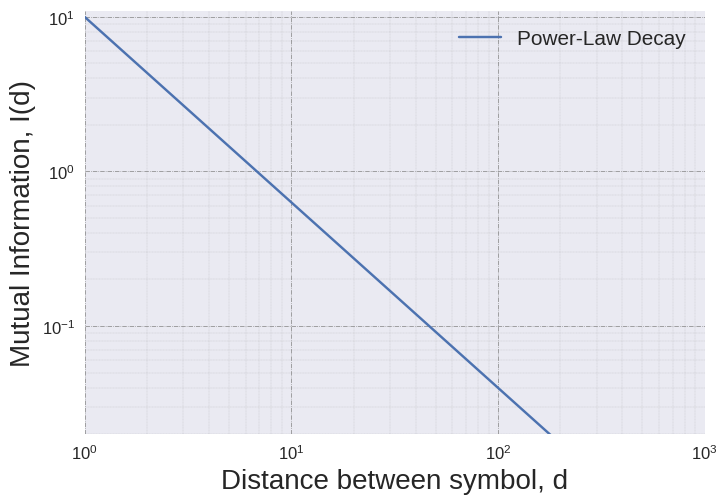
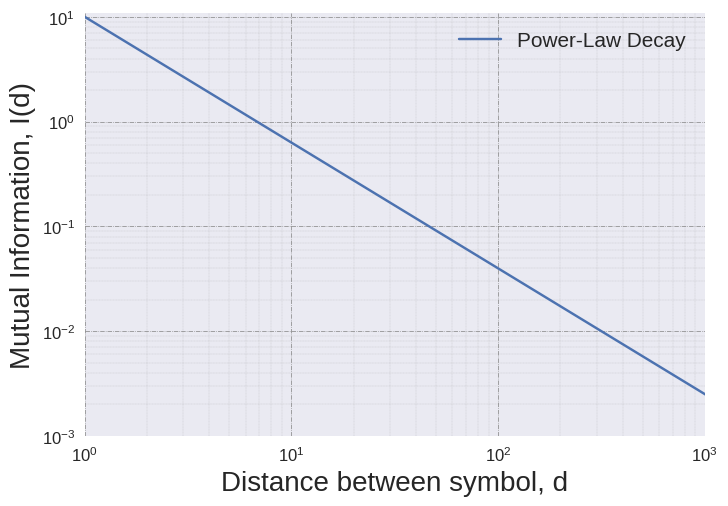
Up

diff --git a/paper_related/framework.py b/paper_related/framework.py
@@ -55,7 +55,7 @@ with plt.style.context(('seaborn')):
     plt.grid(which='major', linestyle='-.', linewidth='0.5', color='grey')
     plt.grid(which='minor', linestyle=':', linewidth='0.2', color='grey')
     ax.set_xlim(1.0, 1000.0)
-    ax.set_ylim(0.02, 11)
+    ax.set_ylim(0.001, 11)
     ax.set_xlabel('Distance between symbol, d', fontsize=20)
     ax.set_ylabel('Mutual Information, I(d)', fontsize=20)
     plt.savefig('pl_deep', bbox_extra_artists=(lgd,), bbox_inches='tight')
